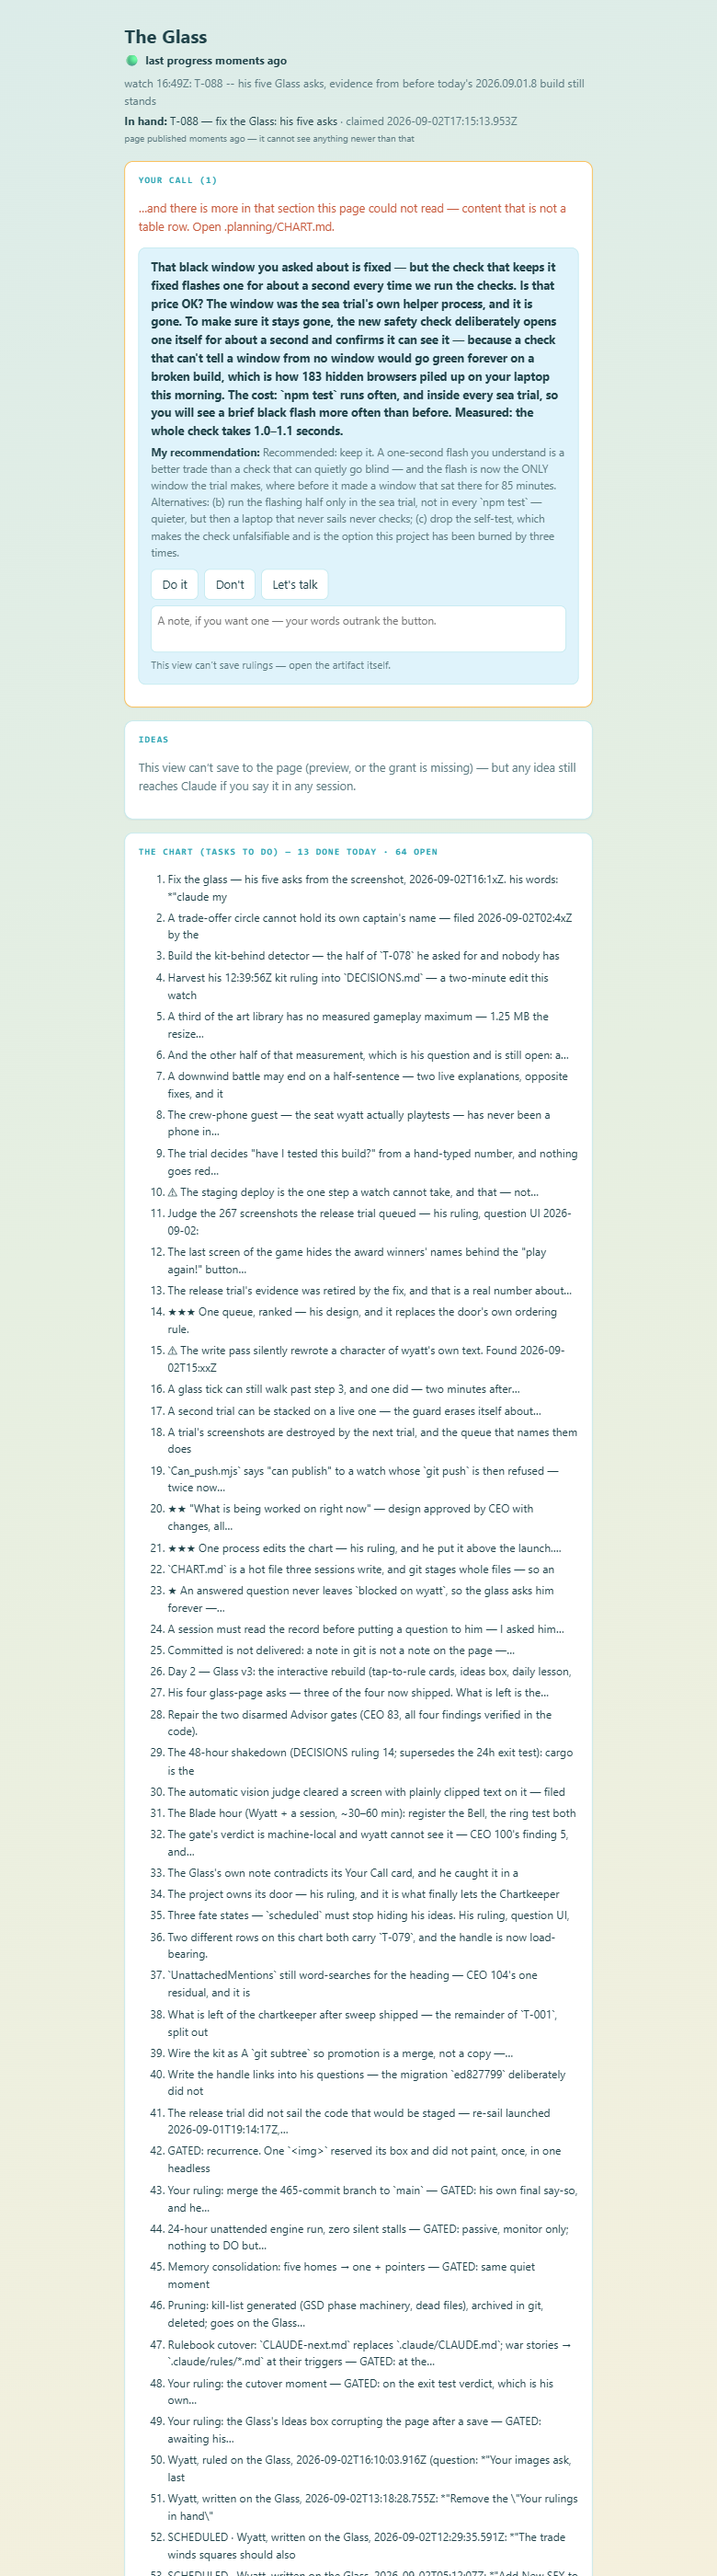
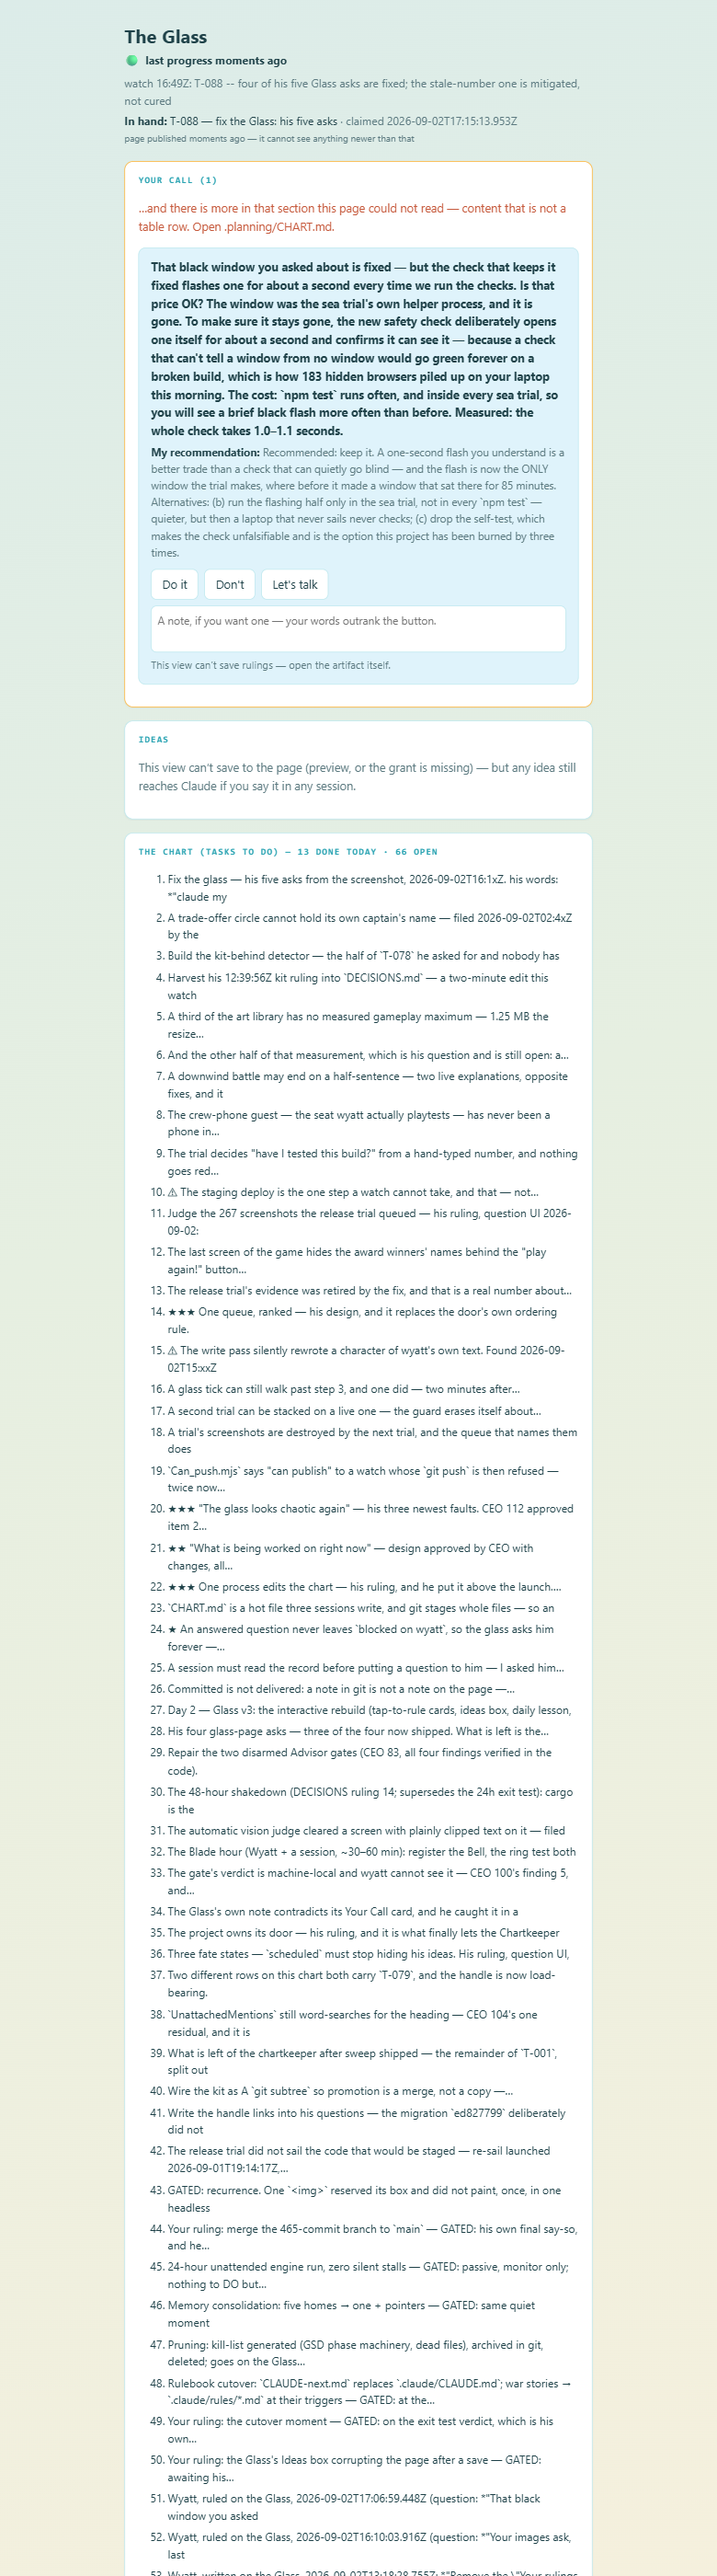
CEO 112 said ask 2 must not be ticked and the in-hand line had no producer -- both answered, neither hidden
T-088 is NOT closed. Four of his five asks are shipped and gated; the fifth is mitigated, not cured,
and this watch says so rather than ticking it.

CORRECTION OWED IN THE OPEN: d0908e64's subject reads "every one held to the LIE it could become",
which reads as five delivered. It is four. The body said so; the subject did not, and a subject is
the only line that reaches him -- the convention filed at INBOX-20260902T15xxZ two hours earlier, and
broken by the watch that had just read it.

CEO 112's TWO FINDINGS, AND WHAT WAS DONE ABOUT EACH:

1. "The new 'what's being worked on right now' line has no process that fills it in, so the next
   watch that follows the Door as written will make your page say 'nothing in hand' while it works."
   Correct, and the Door edit was attempted TWICE and refused by this session's write permissions.
   So the fault was removed from the page instead of left waiting on a file I cannot touch:
   - The page no longer says "Nothing in hand". It says "Nothing recorded in hand -- no watch has
     claimed since the last close." That is a fact about the RECORD, which is all this page can
     know; the old wording asserted something about the world. The gate now FAILS on the old wording.
   - publish_status.mjs -- a command every watch already runs at Door steps 4 and 6 -- prints a loud
     warning when it publishes with no claim on file, naming the command to run.
   The Door line itself remains outstanding and is named in the ledger.
[…]

Changed region(s): [[0.2154, 0.5904, 0.8, 1.0]]

diff --git a/.planning/CEO-REVIEWS.md b/.planning/CEO-REVIEWS.md
@@ -96,6 +96,78 @@ a question, we answered it in a file, and his page still shows it unanswered."*
 
 ---
 
+## CEO Review 112 — 2026-09-02T17:4xZ, Wy-Blade — `T-088`, his five Glass asks, BUILT
+
+*Item: **`T-088`** — Wyatt, 2026-09-02T16:1xZ, with a screenshot of his own page: **"claude my friend,
+you just HAVE to fix the glass. Don't do it yourself -- put it to the TOP of the chart."** Commits
+`d0908e64` and `c8cca404`. Previous verdict handed over: CEO 111 (APPROVED WITH CHANGES, the design
+for ask 1) and CEO 110 (the previous watch).*
+
+### VERDICT: **PARTIAL**
+
+**Its one sentence for Wyatt, in its words:** *"Three of your five asks are genuinely fixed and I can
+see them in the photograph — the Chart is numbered, the shouting is gone, and the Your Call box now
+hides itself — but the '25 minutes ago' number you complained about is still printed exactly as it
+was, with an apology added underneath it, and the new 'what's being worked on right now' line has no
+process that fills it in, so the next watch that follows the Door as written will make your page say
+'nothing in hand' while it works."*
+
+**PER ASK, in its words:**
+- **Ask 1 — BUILT, NOT WIRED.** `glass.mjs:845` renders it under the pulse, `:545-567` reads the
+  machine-written block, four states gated, and the photograph shows it working. *"The gap: nothing
+  produces that block. `.claude/skills/door/SKILL.md:81` still says only 'Claim it in the ledger' —
+  `claim_item.mjs` appears nowhere in the Door… the next watch working from the Door writes a ledger
+  heading and no claim → the line reads 'nothing in hand' during live work. That is a false statement
+  of the same family he complained about, inverted."*
+- **Ask 2 — NOT FIXED, MITIGATED.** *"The number he objected to is unchanged and still the prominent
+  one… the deliverable is a caveat, not the fix."* It judged the account of it honest.
+- **Ask 3 — DONE.** `glass.mjs:849`. *"Hides on genuinely empty, keeps the card and shouts on
+  unparseable (T-077 case), which is the right call."* Rests on the gate, not the picture.
+- **Ask 4 — DONE.** `glass.mjs:601-606`; *"the photograph shows the Chart list numbered 1 through 53+."*
+- **Ask 5 — DONE, with a cost visible on his page.** *"I read the photograph row by row and found no
+  ALL-CAPS shouting anywhere in the Chart list; lone acronyms survive."* And: *"row 15 renders 'a
+  character of wyatt's own text'… his own name, lowercased, on the page he steers from… I'd call it
+  acceptable but I would not want him to discover it unannounced."*
+
+**THE COUNTING CLAIM — "nobody was right, and that is the answer."** CEO 111 said 15 headings / 4
+parseable; the watch said 40 / 4; the CEO counted **57** and **3**. *"Three independent counts, three
+different numbers, from the same file on the same day. That does not change the decision — it is the
+strongest available evidence for it. The ledger is free prose whose count is a property of whoever's
+regex is looking at it."*
+
+**RECURRENCE:** CEO 111's finding 1 **does not recur** (the built thing reads the status file, and
+the gate's fixtures are produced by the real writer, `glass_his_five_asks_check.mjs:71`). CEO 111's
+finding 2 **does not recur as an error**, but its warning holds — *"my judgement: ask 2 should not be
+ticked."* CEO 110's fault **does not recur**: *"each `pass()` string describes exactly the condition
+just checked."* **"A sentence tidier than the record" PARTIALLY recurs, at the headline only** — the
+commit subject *"every one held to the LIE it could become"* *"reads as five delivered. Two are
+not… a headline out ahead of an honest body, not a concealment. Fifth or sixth verdict on this branch
+touching the same shape."*
+
+**WHAT IT DID NOT VERIFY, in its words:** the RED-first claim (*"I did not check out `217c1375` and
+run the gate against the old `glass.mjs` — read-only mandate"*); the full `npm test` (it ran the one
+gate, 18 ok, and confirmed the ceiling and the chain entry); anything a browser renders beyond the
+photograph, which it judged directly; and the empty-Your-Call case on the real page.
+
+**WHAT THE WATCH DID ABOUT IT, IN THE SAME PASS, BEFORE WRITING TO WYATT:**
+- **(ask 1, not wired) FIXED AS FAR AS THIS SESSION CAN, AND THE REMAINDER IS NAMED.** The Door edit
+  was attempted **twice** and refused by this session's write permissions, so two things were done
+  instead. **(a) The lie is gone from the page:** it now reads *"Nothing recorded in hand — no watch
+  has claimed since the last close"* — a fact about the RECORD, which is all this page can know,
+  where *"Nothing in hand"* asserted something it cannot. The gate now FAILS on the old wording.
+  **(b) The reminder reaches a watch through a command the Door already tells it to run:**
+  `publish_status.mjs` prints a loud warning when it publishes with no claim on file. The Door line
+  itself is a Chart row.
+- **(ask 2) THE CLAUSE MOVED ONTO THE NUMBER HE READS**, which is the CEO's actual complaint: once
+  the page is more than a minute old the figure reads *"last progress N min ago (as of this page)"*.
+  **And its judgement is accepted in full: ask 2 is NOT ticked and `T-088` is NOT closed.** The cure
+  is the page being republished when work lands (the Door's step 6b, shipped by another session an
+  hour earlier), because a static page cannot learn about a commit made after it was generated.
+- **(headline) ACCEPTED, and corrected in the open** rather than by rewriting a pushed subject — the
+  closing ledger entry and this verdict both say four of five, not five.
+- **(the counting) ACCEPTED, and it is the better argument.** Three regexes, three answers; the
+  ledger is prose. Recorded in `claim_item.mjs`'s header and in the Door row.
+
 ## CEO Review 111 — 2026-09-02, Wy-Blade — the "what is being worked on right now" design
 
 *His ask: **"what is being worked on RIGHT NOW? that needs to be visible just underneath the emoji

diff --git a/.planning/CTO-LEDGER.md b/.planning/CTO-LEDGER.md
@@ -5000,3 +5000,68 @@ page's "last progress N min ago" ages on screen after publish — make it comput
 browser; (3) hide the `YOUR CALL` card when it is genuinely empty, and never when it is merely
 unparseable; (4) numbers not bullets; (5) stop the page shouting his Chart's ALL-CAPS row titles back
 at him.
+
+### WATCH 16:49Z — `T-088` NOT CLOSED. Four of five shipped, CEO 112 PARTIAL, and it is right.
+
+**THE HEADLINE, CORRECTED IN THE OPEN BEFORE ANYTHING ELSE.** Commit `d0908e64`'s subject says
+*"his five Glass asks, and every one held to the LIE it could become"*. **That reads as five
+delivered and it is four.** CEO 112: *"a headline out ahead of an honest body… fifth or sixth verdict
+on this branch touching the same shape."* The body and the code comments both say it plainly; the
+subject did not, and a subject is the only line that reaches him (the convention filed at
+`INBOX-20260902T15xxZ`, two hours old, and broken by the watch that had just read it).
+
+**PREDICTION vs RESULT** (`.planning/wyclau/PREDICTION-20260902T1649Z-glass-five-asks.md`, written
+before a single measurement).
+- **P1 RIGHT, and it was the most valuable line in the file.** I predicted the Chart's stated fix for
+  ask 2 — *"make the page compute its own age in the browser"* — was **already built**. It was, and
+  had been since 2026-08-31. **Implementing the row as written would have changed nothing and been
+  reported as a fix.** CEO 111 reached the same conclusion independently, from the other direction.
+- **P2 WRONG, and this is the one worth keeping.** I predicted the ledger's claim headings were
+  parseable enough and needed no staleness constant. **Measured: 40 `WATCH` headings, 4 in a
+  parseable shape, all four written in the previous two hours.** My regex worked today and would have
+  shown him nothing that morning. Rebuilt onto a machine-written block.
+- **P3, P4 RIGHT.** The acronym-vs-shouting distinction held; the unparseable-blocked-section case
+  was real and reachable.
+- **P5 RIGHT and understated.** The gate took longer than all five fixes together, **and two of the
+  five turned out to be differently caused than the row said.**
+
+**WHAT SHIPPED** — `d0908e64`, `c8cca404`, and the CEO-fix commit that follows this entry.
+`glass_his_five_asks_check.mjs`, **RED 12 of 13 → GREEN 19 of 19**, npm test **107/107**, ceiling
+106 → 107 with `quiet_gate_report` offering zero retirement candidates for the fourth raise running.
+Photographed against the REAL Chart, ledger and status files at 390×844 DPR 2:
+`.planning/posed/glass-after-T088.png`.
+
+**WHAT IS ACTUALLY LEFT, so nobody re-does the four that are done:**
+1. **ASK 2 IS MITIGATED, NOT CURED, AND IT IS NOT TICKED.** The frozen figure now says *"(as of this
+   page)"* once the page is over a minute old, and the published line says the page cannot see
+   anything newer. **The number itself is unchanged**, because a static page cannot learn about a
+   commit made after it was generated. The cure is republishing when work lands — the Door's step 6b,
+   shipped by another session an hour before this watch. **And he has already overruled the wording**:
+   `T-095` asks for one status bar in his own words and for the apology string to be deleted.
+2. **THE DOOR LINE.** `claim_item.mjs` exists and works; `.claude/skills/door/SKILL.md` step 2 does
+   not yet tell a watch to run it. **The edit was attempted TWICE and refused by this session's write
+   permissions** — recorded as a fact about this machine, not as a guess about why. Two things were
+   done instead: the page no longer says *"Nothing in hand"* (it says *"Nothing recorded in hand"*,
+   which is a fact about the RECORD and all the page can know), and `publish_status.mjs` warns loudly
+   when it publishes with no claim on file — a command every watch already runs.
+
+**THE MOST USEFUL THING THIS WATCH LEARNED, and it is not about the Glass.** Two of the five asks had
+a cause different from the one his Chart row stated, and **both were caught by looking rather than by
+reasoning** — one by writing the prediction down before measuring, one by photographing his real page
+instead of a fixture. The photograph found two de-shouting defects no fixture could: a trailing full
+stop made `NUMBER.` read as an identifier, and a punctuation token carried a shouting run across a
+clause boundary and lowercased the acronym beyond it (*"the heading — ceo 104's"*). `glass_peek.mjs`
+is kept for that reason and flagged as tooling rather than buried.
+
+**AND A COUNT THAT NOBODY GOT RIGHT, which is the strongest argument for what was built.** How many
+claims are parseable out of `CTO-LEDGER.md`? CEO 111 said 15/4, this watch said 40/4, CEO 112 counted
+57/3 — **three regexes, three answers, same file, same day.** The ledger is prose, and its count is a
+property of whoever is looking at it.
+
+**RULE 17 ON EXIT:** `stray_probe_check` — see the closing commit. `glass_peek.mjs` launches a
+headless Chrome and `cdp.mjs`'s `close()` leans on `pkill`, which does not exist here.
+
+**LOCAL LITTER THIS SESSION COULD NOT REMOVE, named so a human can:** `scripts/qa/_peek_glass.mjs`
+(superseded by `glass_peek.mjs`) and `.planning/wyclau/_commitmsg.txt`. Both are UNTRACKED and were
+never staged, so neither reaches the branch; `rm`, `Remove-Item` and `git mv` were each refused on
+them by this session's sandbox.

diff --git a/.planning/wyclau/status/Wy-Blade.md b/.planning/wyclau/status/Wy-Blade.md
@@ -5,7 +5,7 @@
 
 ## Last pulse (HEARTBEAT)
 ```
-2026-09-02T17:14:53.580Z	self-publish check
+2026-09-02T17:24:20.258Z	self-publish check
 ```
 
 ## In hand (IN-HAND)
